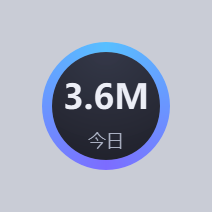
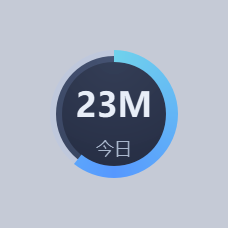
Refresh README UI screenshots for the tech-blue theme.
Regenerate widget/ball/panel/settings previews with current grouping and palette.

Changed region(s): [[0.1981, 0.1981, 0.8208, 0.8208]]

diff --git a/tests/render_preview.py b/tests/render_preview.py
@@ -1,9 +1,11 @@
-"""把界面离屏渲染成 PNG，用于预览外观（不截屏、不干扰运行中的实例）。
+"""把界面离屏渲染成 PNG，用于 README 预览（不截屏、不干扰运行中的实例）。
 
 用法：
     .venv\\Scripts\\python.exe tests\\render_preview.py            # 全部
     .venv\\Scripts\\python.exe tests\\render_preview.py settings   # 只渲染设置页
 """
+
+from __future__ import annotations
 
 import sys
 from pathlib import Path
@@ -24,9 +26,11 @@ from diskwatch.ui.widget import FloatingWidget
 from diskwatch.watcher import FileMonitor
 
 OUT_DIR = Path(__file__).resolve().parent.parent / "docs"
+# 略偏冷的浅灰，衬托深色科技蓝界面
+_CANVAS = QColor("#c5cad6")
 
 
-def save(widget, name: str, margin: int = 20) -> None:
+def save(widget, name: str, margin: int = 24) -> None:
     pm = widget.grab()
     # grab() 返回物理像素图并自带 devicePixelRatio，而 QPainter 按逻辑坐标绘制。
     # 画布必须按物理尺寸开、按同一 DPR 标记，否则高分屏下会留出大片空白。
@@ -35,7 +39,7 @@ def save(widget, name: str, margin: int = 20) -> None:
         int(pm.width() + 2 * margin * dpr), int(pm.height() + 2 * margin * dpr)
     )
     canvas.setDevicePixelRatio(dpr)
-    canvas.fill(QColor("#c9ccd6"))
+    canvas.fill(_CANVAS)
     p = QPainter(canvas)
     p.drawPixmap(margin, margin, pm)
     p.end()
@@ -52,10 +56,9 @@ def main() -> int:
     apply_dark_theme(app)
     config = Config()
     storage = Storage(DB_PATH)
-    monitor = FileMonitor(config, storage)  # 不 start()，只用于显示"监控 N 个位置"
+    monitor = FileMonitor(config, storage)  # 不 start()，只用于显示「监控 N 个位置」
     monitor._roots = ["C:\\"]
 
-    # 每项是 (准备动作, 目标控件, 输出名)
     jobs: list[tuple] = []
 
     if "widget" in targets:
@@ -74,6 +77,9 @@ def main() -> int:
     if "panel" in targets:
         p = DetailPanel(storage)
         p.reload()
+        # 展示「按应用分组」树状效果
+        if hasattr(p, "chk_group"):
+            p.chk_group.setChecked(True)
         p.resize(1000, 620)
         p.show()
         jobs.append((lambda: None, p, "panel-preview"))
@@ -83,6 +89,8 @@ def main() -> int:
         s.resize(640, 580)
         s.show()
         tabs = s.findChild(QTabWidget)
+        # README 用的主图：第一页
+        jobs.append((lambda: tabs.setCurrentIndex(0), s, "settings-preview"))
         for i in range(tabs.count()):
             name = f"settings-{i}-{tabs.tabText(i)}"
             jobs.append((lambda idx=i: tabs.setCurrentIndex(idx), s, name))
@@ -91,11 +99,15 @@ def main() -> int:
         for prepare, widget, name in jobs:
             prepare()
             app.processEvents()
+            if name == "panel-preview":
+                app.processEvents()
             save(widget, name)
         storage.close()
         app.quit()
 
-    QTimer.singleShot(800, grab_all)
+    # 详情面板有异步查库，多给一点时间填表
+    delay = 1200 if "panel" in targets else 800
+    QTimer.singleShot(delay, grab_all)
     return app.exec()
 
 
